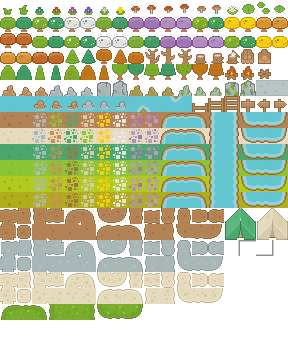
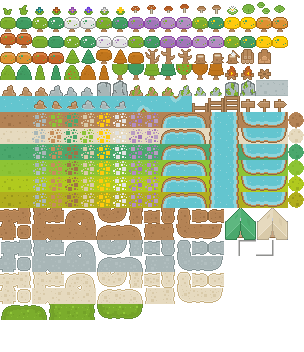
Beaches
Ocean and beaches are now treated in a similiar manner to rivers so
that edges can be added in. Also introduced a parallel draw function.

diff --git a/draw_map.go b/draw_map.go
@@ -289,7 +289,57 @@ func (render *MapRenderer) DrawFloorTile(x, y int, biome uint8) {
   draw.Draw(render.mapImg, destR, render.spritesheet, srcR.Min, draw.Src)
 }
 
-func DrawMap(w *World, hSeed, mSeed, sSeed, fSeed, rSeed int64) {
+func (render *MapRenderer) ParallelDraw(w *World, xBegin, xEnd int, c chan int) {
+  for y := 0; y < w.height; y++ {
+    for x := xBegin; x < xEnd; x++ {
+      biome := w.Biome(x, y)
+      loc := w.Location(x, y)
+
+      if loc.isRiverBank {
+        // OCEAN tiles don't have edge tiles, so use BEACH ones.
+        if biome == OCEAN {
+          biome = BEACH
+        }
+        render.DrawRiverBankFeature(x, y, loc.riverBank, biome)
+        continue;
+      }
+      if loc.isRiver {
+        render.DrawFloorTile(x, y, RIVER)
+        continue;
+      }
+
+      render.DrawFloorTile(x, y, biome)
+
+      if loc.features == EMPTY {
+        continue
+      }
+      if loc.hasFeature(RIGHT_SHADOW_FEATURE) {
+        render.DrawFeature(x, y, SHADOW_ROW * MAX_TILE_COLUMNS + RIGHT_SHADOW)
+      }
+      if loc.hasFeature(BOTTOM_SHADOW_FEATURE) {
+        render.DrawFeature(x, y, SHADOW_ROW * MAX_TILE_COLUMNS + BOTTOM_SHADOW)
+      } 
+      if loc.hasFeature(LEFT_SHADOW_FEATURE) {
+        render.DrawFeature(x, y, SHADOW_ROW * MAX_TILE_COLUMNS + LEFT_SHADOW)
+      }
+      if loc.hasFeature(TOP_SHADOW_FEATURE) {
+        render.DrawFeature(x, y, SHADOW_ROW * MAX_TILE_COLUMNS + TOP_SHADOW)
+      }
+      if loc.hasFeature(ROCK_FEATURE) {
+        col := rand.Intn(NUM_ROCKS)
+        render.DrawFeature(x, y, ROCKS * MAX_TILE_COLUMNS + col)
+      }
+      if loc.hasFeature(TREE_FEATURE) {
+        trees := BIOME_TREES[biome]
+        col := rand.Intn(len(trees))
+        render.DrawFeature(x, y, TREES * MAX_TILE_COLUMNS + trees[col])
+      }
+    }
+  }
+  c <- 1
+}
+
+func DrawMap(w *World, hSeed, mSeed, sSeed, fSeed, rSeed int64, numCPUs int) {
   // First, create an overworld image that represents each tile with a single
   // pixel.
   overworld := image.NewRGBA(image.Rect(0, 0, w.width, w.height))
@@ -341,54 +391,20 @@ func DrawMap(w *World, hSeed, mSeed, sSeed, fSeed, rSeed int64) {
   render := CreateMapRenderer(w.width * TILE_WIDTH, w.height * TILE_HEIGHT,
                               MAX_TILE_COLUMNS, MAX_TILE_ROWS)
 
-  bounds = render.mapImg.Bounds()
-  for y := 0; y < w.height; y++ {
-    for x := 0; x < w.width; x++ {
-      biome := w.Biome(x, y)
-      loc := w.Location(x, y)
-
-      if loc.isRiverBank {
-        render.DrawRiverBankFeature(x, y, loc.riverBank, biome)
-        continue;
-      }
-      if loc.isRiver {
-        render.DrawFloorTile(x, y, RIVER)
-        continue;
-      }
-
-      render.DrawFloorTile(x, y, biome)
-
-      if loc.features == EMPTY {
-        continue
-      }
-      if loc.hasFeature(RIGHT_SHADOW_FEATURE) {
-        render.DrawFeature(x, y, SHADOW_ROW * MAX_TILE_COLUMNS + RIGHT_SHADOW)
-      }
-      if loc.hasFeature(BOTTOM_SHADOW_FEATURE) {
-        render.DrawFeature(x, y, SHADOW_ROW * MAX_TILE_COLUMNS + BOTTOM_SHADOW)
-      } 
-      if loc.hasFeature(LEFT_SHADOW_FEATURE) {
-        render.DrawFeature(x, y, SHADOW_ROW * MAX_TILE_COLUMNS + LEFT_SHADOW)
-      }
-      if loc.hasFeature(TOP_SHADOW_FEATURE) {
-        render.DrawFeature(x, y, SHADOW_ROW * MAX_TILE_COLUMNS + TOP_SHADOW)
-      }
-      if loc.hasFeature(ROCK_FEATURE) {
-        col := rand.Intn(NUM_ROCKS)
-        render.DrawFeature(x, y, ROCKS * MAX_TILE_COLUMNS + col)
-      }
-      if loc.hasFeature(TREE_FEATURE) {
-        trees := BIOME_TREES[biome]
-        col := rand.Intn(len(trees))
-        render.DrawFeature(x, y, TREES * MAX_TILE_COLUMNS + trees[col])
-      }
-    }
+  c := make(chan int, numCPUs)
+  for i := 0; i < numCPUs; i++ {
+    go render.ParallelDraw(w, i * w.width / numCPUs, (i + 1) * w.width / numCPUs, c)
   }
+  for i := 0; i < numCPUs; i++ {
+    <-c
+  }
+  fmt.Println("Detailed map rendered in memory.")
 
   imgFile, err = os.Create("world-map.png")
   if err != nil {
     log.Fatal(err)
   }
+  fmt.Println("Encoding detailed map...")
   if err := png.Encode(imgFile, render.mapImg); err != nil {
     imgFile.Close();
     log.Fatal(err)
@@ -396,6 +412,7 @@ func DrawMap(w *World, hSeed, mSeed, sSeed, fSeed, rSeed int64) {
   if err := imgFile.Close(); err != nil {
     log.Fatal(err)
   }
+  fmt.Println("Done!")
 
 }
 

diff --git a/world.go b/world.go
@@ -240,12 +240,35 @@ func (w World) AddRivers() {
   }
 }
 
+// Look around each tile, recording the number of tiles which differ from its
+// biome. The most often occuring differing biome can be used to overlay a
+// tile as a feature. Skip OCEAN, RIVER and WALL tiles as positions to begin
+// the search. Also dismiss OCEAN and RIVER tiles during the search and don't
+// try to diffuse biome that are in different terraces.
+func (w World) AddTileDiffuse(xBegin, xEnd int, c chan int) {
+  /*
+  OCEAN
+  RIVER
+  BEACH
+  DRY_ROCK
+  WALL
+  MOIST_ROCK
+  HEATHLAND
+  SHRUBLAND
+  GRASSLAND
+  MOORLAND
+  FENLAND
+  WOODLAND
+  FOREST
+  */
+}
+
 func (w World) AddRiverBanks(xBegin, xEnd int, c chan int) {
   
   for y := 0; y < w.height; y ++ {
     for x := xBegin; x < xEnd; x ++ {
       loc := w.Location(x, y);
-      if !loc.isRiver {
+      if !loc.isRiver && loc.biome != OCEAN {
         continue;
       }
       N := false
@@ -254,16 +277,20 @@ func (w World) AddRiverBanks(xBegin, xEnd int, c chan int) {
       W := false
 
       if y > 0 {
-        N = !w.Location(x, y - 1).isRiver
+        biome := w.Location(x, y - 1).biome
+        N = !w.Location(x, y - 1).isRiver && biome != OCEAN 
       }
       if y < w.height - 1 {
-        S = !w.Location(x, y + 1).isRiver
+        biome := w.Location(x, y + 1).biome
+        S = !w.Location(x, y + 1).isRiver && biome != OCEAN
       }
       if x > 0 {
-        W = !w.Location(x - 1, y).isRiver
+        biome := w.Location(x - 1, y).biome
+        W = !w.Location(x - 1, y).isRiver && biome != OCEAN
       }
       if x < w.width - 1 {
-        E = !w.Location(x + 1, y).isRiver
+        biome := w.Location(x + 1, y).biome
+        E = !w.Location(x + 1, y).isRiver && biome != OCEAN
       }
 
       // Location == land:
@@ -680,7 +707,7 @@ func GenerateMap(hFreq, mFreq, sFreq, fFreq, rFreq float64,
   fmt.Println("Number of peaks: ", len(world.peaks));
   fmt.Println("Numer of lakes: ", len(world.lakes));
 
-  DrawMap(world, hSeed, mSeed, sSeed, fSeed, rSeed)
+  DrawMap(world, hSeed, mSeed, sSeed, fSeed, rSeed, numCPUs)
 }
 
 func main() {
